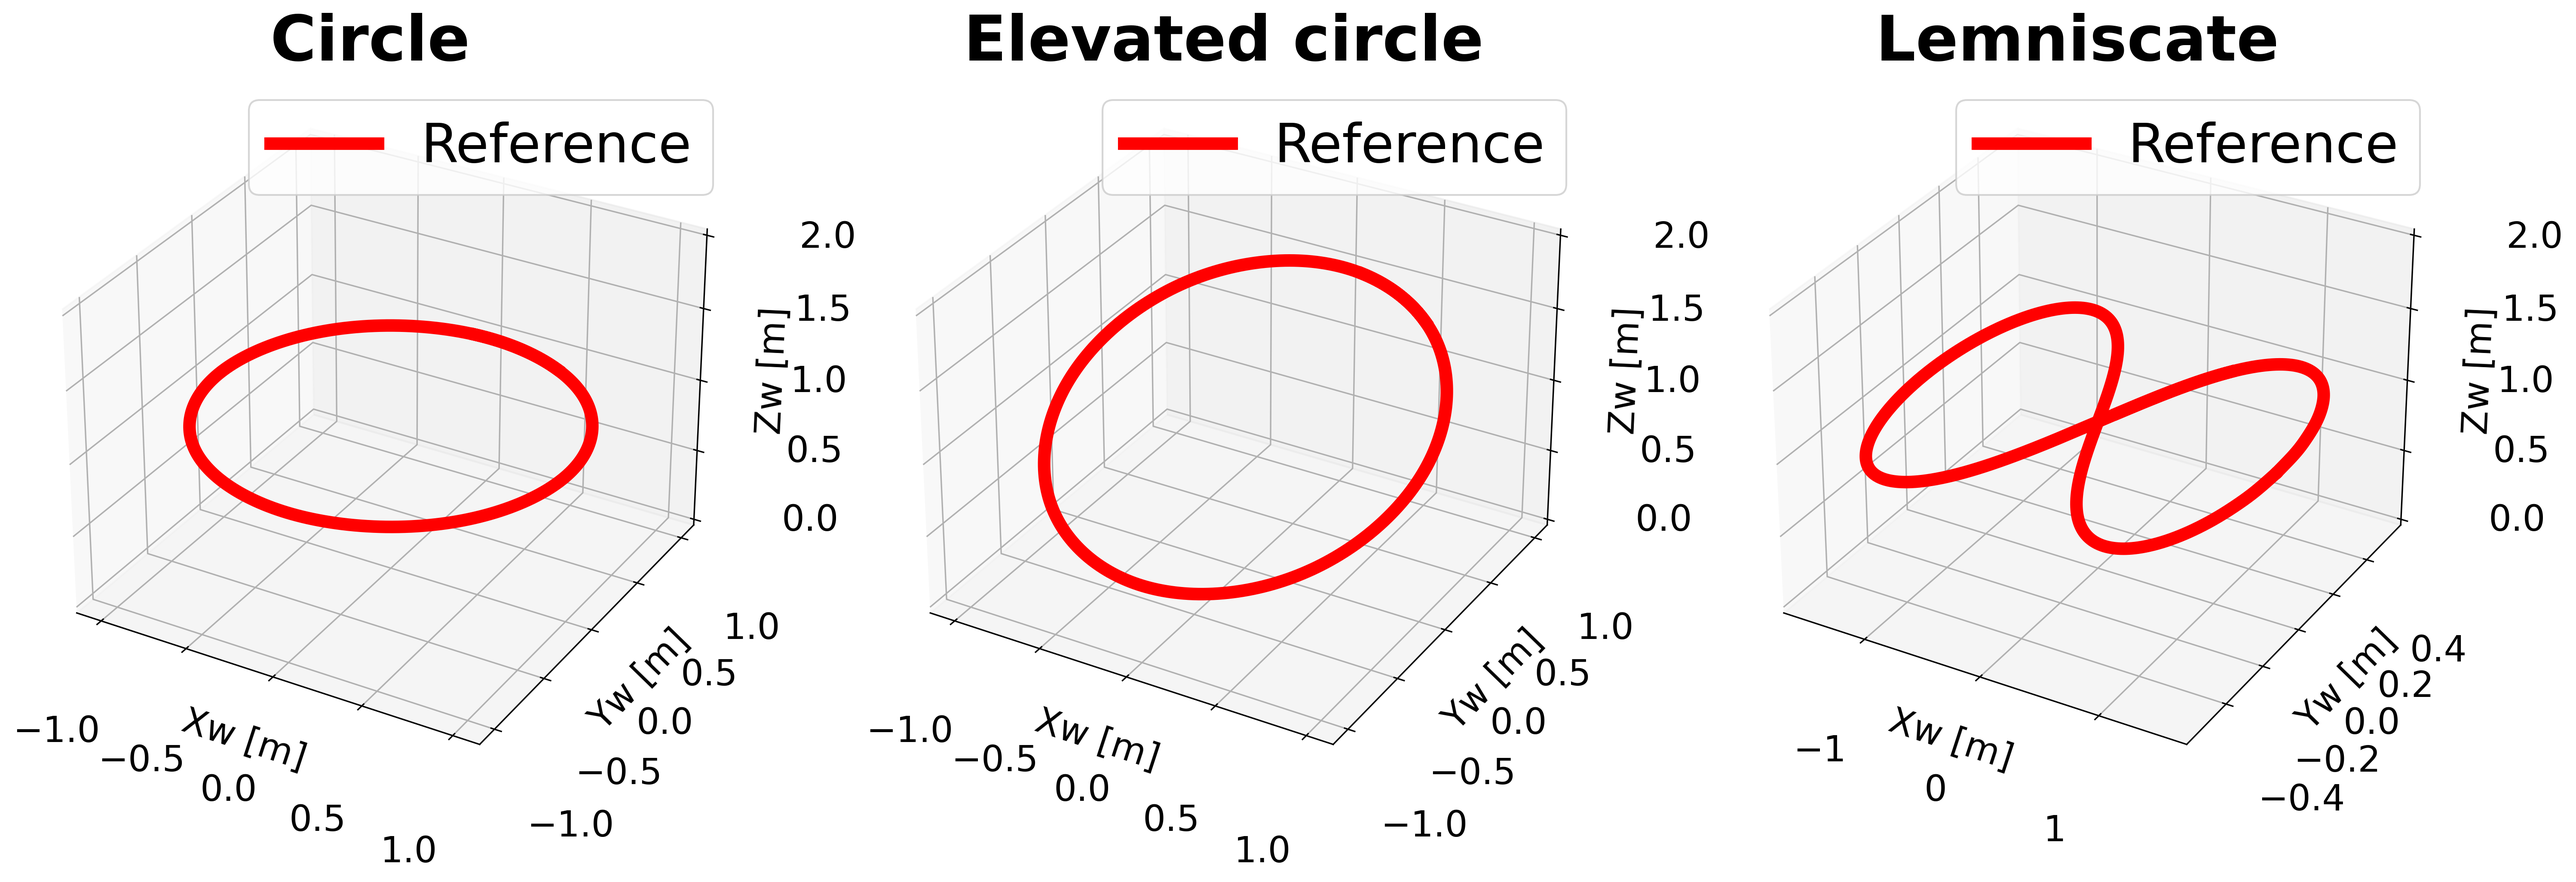
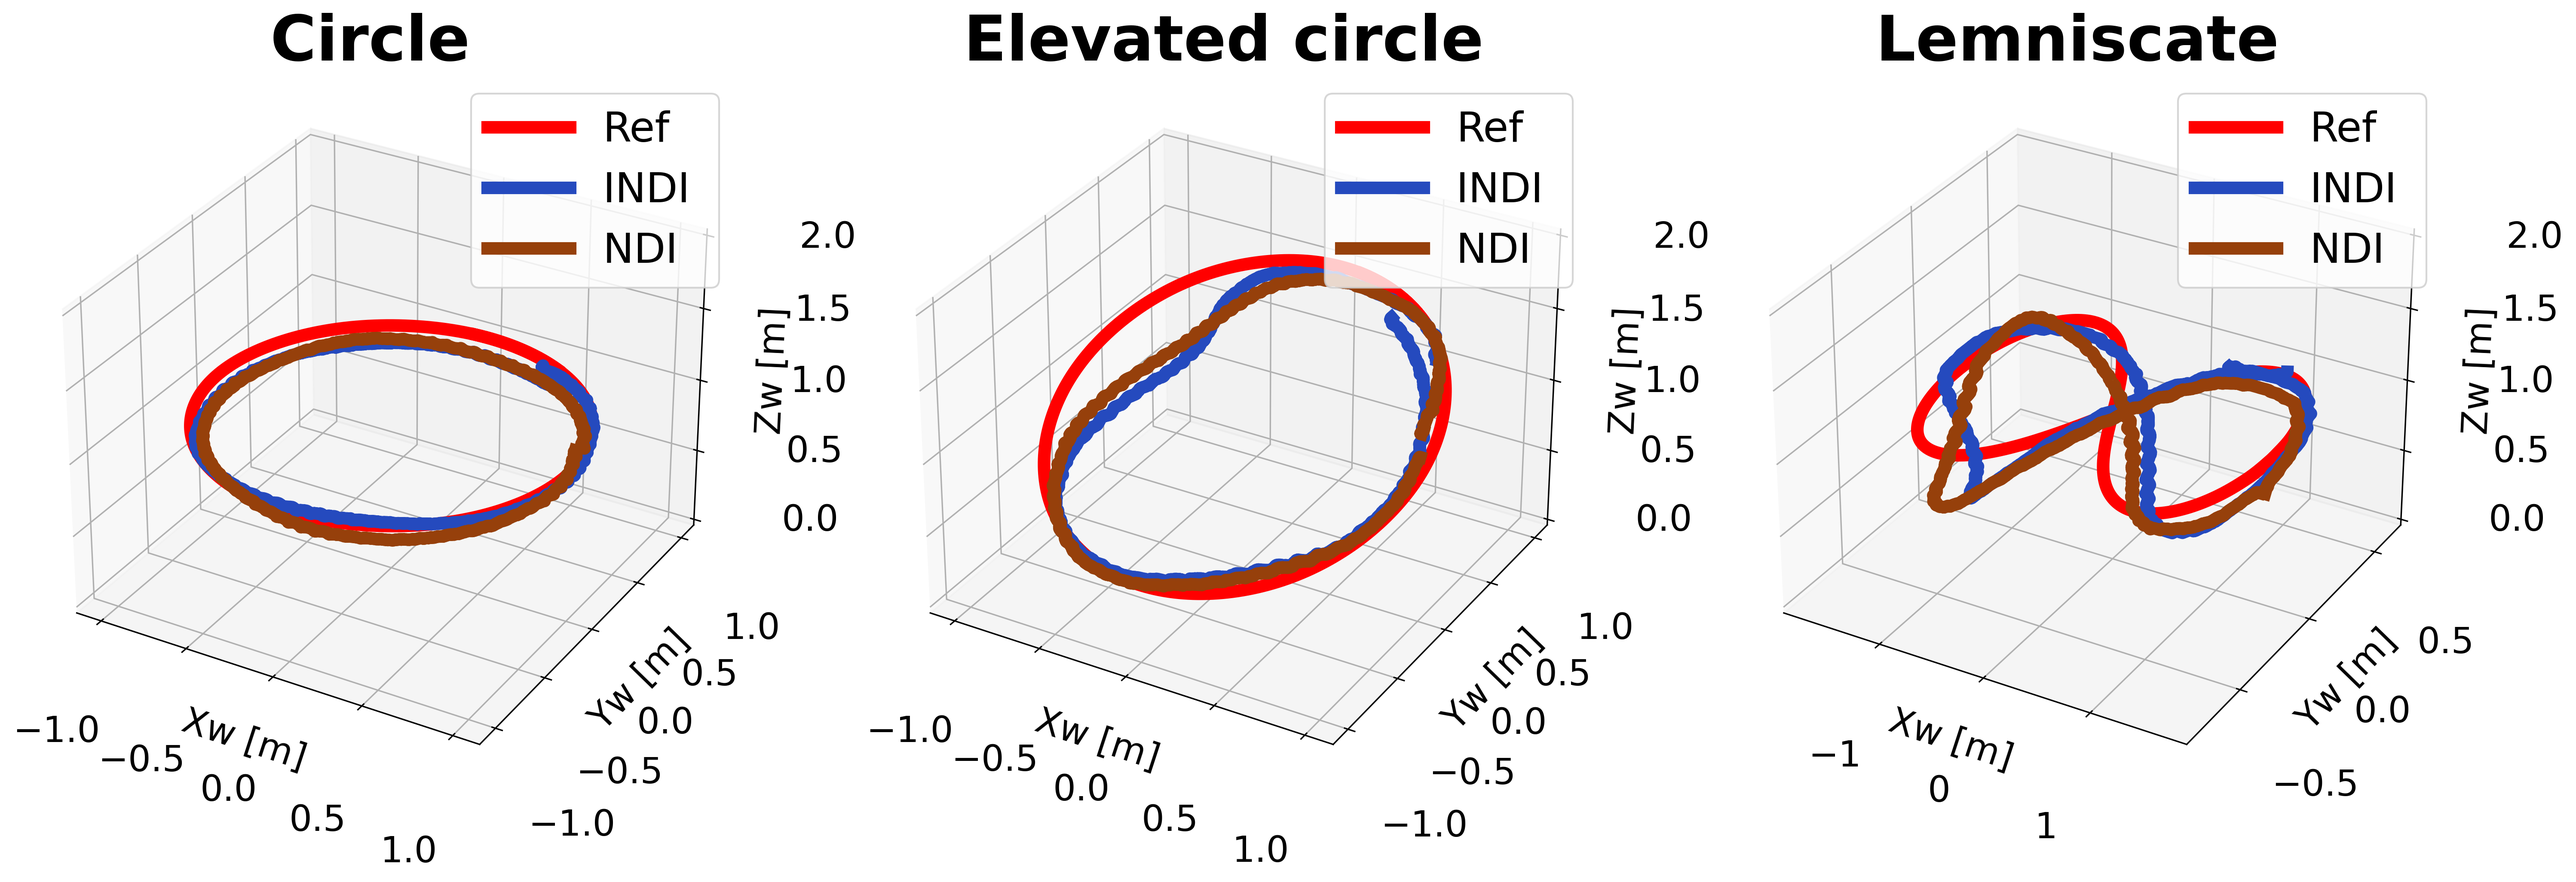
aft submission

diff --git a/paper_plots/3D_graphs_plotter.py b/paper_plots/3D_graphs_plotter.py
@@ -64,19 +64,19 @@ for a in range(len(graphs[0])): # 3D plot for trajs
             rx = wing[a][m][4] 
             ry = wing[a][m][5] 
             rz = wing[a][m][6] 
-            graphs[0][a].plot3D(rx,ry,rz,label='Reference',color='red',linewidth=7.0,linestyle='solid') 
+            graphs[0][a].plot3D(rx,ry,rz,label='Ref',color='red',linewidth=7.0,linestyle='solid') 
     
         x = wing[a][m][1] 
         y = wing[a][m][2] 
         z = wing[a][m][3]
-        #graphs[0][a].plot3D(x,y,z,label=method_label,linewidth=4.0,color=colors[m],linestyle=style) #label=['INDI']
+        graphs[0][a].plot3D(x,y,z,label=method_label,linewidth=7.0,color=colors[m],linestyle=style) #label=['INDI']
                 
     graphs[0][a].set_zlim(0,2)
     graphs[0][a].set_xlabel('Xw [m]', fontsize=20)
     graphs[0][a].set_ylabel('Yw [m]', fontsize=20)
     graphs[0][a].set_zlabel('Zw [m]', fontsize=20)
     # legend        
-    graphs[0][a].legend(loc='upper right', fontsize=30)
+    graphs[0][a].legend(loc='upper right', fontsize=23)
     # add title
     graphs[0][a].set_title(traj_label, fontsize=35, fontweight='bold')
     graphs[0][a].tick_params(axis='both', labelsize=20)
